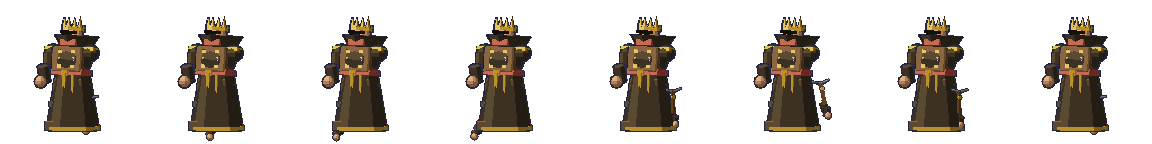
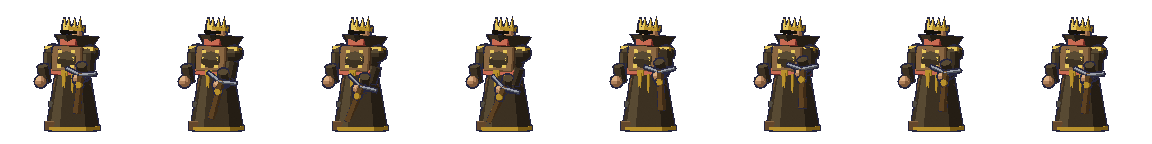
Play the attacks, and fix the enemies' shoulders too
Eight frames in a row cannot answer whether a swing reads, which is what the
developer said when handed the contact sheets. `tools/attack-preview.html` plays
them instead: a speed slider, a rest beat that holds frame 0 so an attack fires
in bursts the way it will in play, a per-family grid, and a duel view pairing
each hero with an enemy.

It opens by double-click, with no server. Nothing here fetches or reads canvas
pixels, so file:// is enough: the roster is inlined, each strip's frame count is
read off its own dimensions, and a frame step is a background-position change.

A duel needs an opponent, and the enemy sheets in the repository were still the
broken ones, so all 61 are re-rendered and published. The eight enemy entries
that swung a shoulder ball through a two-handed grip got the fix the heroes
already had; none is left.

Cells are not one size, so the preview seats each on the ground line by its OWN
tenth. Bottom-aligning a 176px boss against a 128px hero drops his feet 5px
below everyone else's.

The enemies have never been judged for anything beyond this.

diff --git a/tools/attack-preview.html b/tools/attack-preview.html
@@ -1,0 +1,291 @@
+<!DOCTYPE html>
+<html>
+<head>
+<meta charset="utf-8">
+<title>Attack preview — the animations in motion</title>
+<!--
+  Plays the rendered attack sheets so they can be judged as MOTION rather than as
+  a row of stills. An eight-frame strip tells you nothing about whether a swing
+  reads; only playback does.
+
+  Opens by DOUBLE-CLICK, with no server. That is why nothing here fetches or
+  touches canvas pixels: the roster is inlined, the frame count is read off each
+  image's own dimensions, and animation is a background-position step. The
+  runtime sprite pipeline in game.js does need canvas, which is why the game
+  itself wants http, but a review tool that needs a server does not get used.
+
+  EVERY CELL SEATS ON ONE GROUND LINE. World z=0 sits 10% up from the bottom of
+  every cell whatever its size, so a 176px boss cell and a 128px hero cell only
+  line up if each is pushed down by its OWN 10%. Bottom-aligning the images
+  instead puts the boss's feet 5px below everyone else's.
+-->
+<style>
+  :root { --ink: #d8cba8; --dim: #8a7f63; --gold: #c9a84c; }
+  body { background: #14110c; color: var(--ink);
+         font-family: Georgia, "Times New Roman", serif; margin: 0; padding: 20px 24px 60px; }
+  h1 { font-size: 21px; color: var(--gold); margin: 0 0 4px; }
+  .sub { font-size: 13px; color: var(--dim); margin-bottom: 18px; max-width: 62em; line-height: 1.5; }
+  .note { color: #b9a978; }
+
+  #bar { position: sticky; top: 0; z-index: 5; background: #14110c;
+         border-bottom: 1px solid #2e2617; padding: 10px 0 12px; margin-bottom: 18px;
+         display: flex; flex-wrap: wrap; gap: 16px 22px; align-items: center; }
+  #bar label { font-size: 12px; color: var(--dim); display: flex; align-items: center; gap: 7px; }
+  #bar output { color: var(--ink); min-width: 2.4em; display: inline-block; font-variant-numeric: tabular-nums; }
+  button, select { font-family: inherit; font-size: 13px; color: var(--ink);
+                   background: #241d12; border: 1px solid #4a3d25; border-radius: 3px;
+                   padding: 5px 12px; cursor: pointer; }
+  button:hover, select:hover { background: #2f2617; }
+  input[type=range] { accent-color: var(--gold); width: 130px; }
+
+  .grid { display: flex; flex-wrap: wrap; gap: 26px 20px; }
+  .cell { text-align: center; }
+  .stage { position: relative; background: #1b1710; border: 1px solid #2e2617;
+           border-radius: 3px; overflow: hidden; }
+  .ground { position: absolute; left: 0; right: 0; border-top: 1px solid #352c1a; }
+  .unit { position: absolute; image-rendering: pixelated;
+          background-repeat: no-repeat; }
+  .name { font-size: 11px; color: var(--dim); margin-top: 6px;
+          letter-spacing: 0.06em; text-transform: uppercase; }
+
+  .duel { display: flex; flex-wrap: wrap; gap: 26px 20px; }
+  .duel .stage { background: #1b1710; }
+  .duelname { font-size: 11px; color: var(--dim); margin-top: 6px; letter-spacing: 0.06em; }
+  .missing { color: #c46b52; font-size: 12px; padding: 12px; }
+</style>
+</head>
+<body>
+
+<h1>Attack preview</h1>
+<div class="sub">
+  Every rendered attack sheet, playing. Heroes face right and enemies face left, exactly as they
+  are drawn, so a duel row shows them meeting. <span class="note">Rest beat</span> holds frame 0
+  for a few extra frames, which is closer to how an attack fires in play than a continuous loop.
+  Sheets load from <code>assets/rendered/attack/</code>; anything not yet rendered shows as a gap.
+</div>
+
+<div id="bar">
+  <button id="play">Pause</button>
+  <button id="step">Step</button>
+  <label>Speed <input id="fps" type="range" min="2" max="24" value="12"><output id="fpsv">12</output> fps</label>
+  <label>Rest beat <input id="rest" type="range" min="0" max="16" value="5"><output id="restv">5</output></label>
+  <label>Zoom <input id="zoom" type="range" min="1" max="5" value="3"><output id="zoomv">3</output>x</label>
+  <label>Show
+    <select id="view">
+      <option value="hero-base">Hero lines (8)</option>
+      <option value="hero-all">Hero lines + rarity tiers (32)</option>
+      <option value="duel">Duels: hero vs enemy</option>
+      <option value="goblin">Goblin raid</option>
+      <option value="orc">Orc warband</option>
+      <option value="bandit">Bandit horde</option>
+      <option value="undead">Undead legion</option>
+      <option value="infernal">Infernal siege</option>
+      <option value="all">Everything (61)</option>
+    </select>
+  </label>
+  <label>Frame <output id="frame">0</output></label>
+</div>
+
+<div id="out"></div>
+
+<script>
+// The roster, inlined because file:// cannot fetch a manifest. Keep in step with
+// tools/blender/attack_roster.py; `render_attacks.py --list` prints it.
+const HERO_BASE = ['hero_fighter', 'hero_ranged', 'hero_mender', 'hero_paladin',
+                   'hero_assassin', 'hero_battlemage', 'hero_banneret', 'hero_frostadept'];
+const TIERS = ['', '_rare', '_epic', '_legendary'];
+// Two lines were auditioned at a tier other than common, so their base sprite IS
+// that tier and the missing one is generated instead.
+const BASE_TIER = { hero_mender: '_rare', hero_paladin: '_epic' };
+const FAMILIES = {
+  goblin:   ['goblin_skirmisher', 'goblin_caster', 'goblin_shaman', 'goblin_sapper', 'goblin_boss'],
+  orc:      ['orc_brute', 'orc_skirmisher', 'orc_caster', 'orc_shaman', 'orc_sapper', 'orc_boss'],
+  bandit:   ['bandit_brute', 'bandit_skirmisher', 'bandit_caster', 'bandit_shaman', 'bandit_sapper', 'bandit_boss'],
+  undead:   ['undead_brute', 'undead_skirmisher', 'undead_caster', 'undead_shaman', 'undead_sapper', 'undead_boss'],
+  infernal: ['infernal_brute', 'infernal_skirmisher', 'infernal_caster', 'infernal_shaman', 'infernal_sapper', 'infernal_boss'],
+};
+// One opponent per hero, spread across the five families so a single screen shows
+// every family at least once.
+const DUELS = [
+  ['hero_fighter',    'orc_brute'],
+  ['hero_ranged',     'goblin_skirmisher'],
+  ['hero_mender',     'undead_caster'],
+  ['hero_paladin',    'undead_brute'],
+  ['hero_assassin',   'bandit_skirmisher'],
+  ['hero_battlemage', 'infernal_skirmisher'],
+  ['hero_banneret',   'orc_boss'],
+  ['hero_frostadept', 'infernal_caster'],
+];
+
+const GROUND_FRAC = 0.10;   // spritekit.GROUND_FRAC: world z=0 sits this far up every cell
+const SRC = key => '../assets/rendered/attack/' + key + '.png';
+
+function heroAll() {
+  const out = [];
+  for (const line of HERO_BASE) {
+    for (const t of TIERS) {
+      out.push(t === (BASE_TIER[line] || '') ? line : line + t);
+    }
+  }
+  return out;
+}
+
+const el = id => document.getElementById(id);
+const out = el('out');
+
+let playing = true, frame = 0, timer = null;
+const units = [];          // {node, frames, cell} for every unit on screen
+
+function zoom() { return +el('zoom').value; }
+
+/** One animating figure. Frame count comes from the image itself: a strip is
+ *  square cells laid in a row, so frames = width / height and cell = height. */
+function makeUnit(key, stage, xFrac) {
+  const node = document.createElement('div');
+  node.className = 'unit';
+  node.style.backgroundImage = `url("${SRC(key)}")`;
+  stage.appendChild(node);
+  const rec = { node, frames: 8, cell: 128, xFrac, ready: false };
+  stage._units.push(rec);
+  const probe = new Image();
+  probe.onload = () => {
+    rec.cell = probe.naturalHeight;
+    rec.frames = Math.max(1, Math.round(probe.naturalWidth / probe.naturalHeight));
+    rec.ready = true;
+    fitStage(stage);
+    paint(rec);
+  };
+  probe.onerror = () => { node.remove(); };
+  probe.src = SRC(key);
+  units.push(rec);
+  return rec;
+}
+
+/** Size the stage from the art it holds, then seat every unit on one ground line.
+ *  Cells are not one size -- 128 for most, 192 for the banneret, 176 for a boss --
+ *  so a fixed stage clips the big ones. The tallest cell present sets the stage. */
+function fitStage(stage) {
+  const z = zoom();
+  const ready = stage._units.filter(r => r.ready);
+  if (!ready.length) return;
+  const cell = Math.max(...ready.map(r => r.cell));
+  const h = cell * z;
+  stage.style.height = h + 'px';
+  stage.style.width = (h * stage._aspect) + 'px';
+  // The ground line is where the TALLEST cell's own ground row falls.
+  stage._groundPx = cell * GROUND_FRAC * z;
+  stage._ground.style.bottom = stage._groundPx + 'px';
+  for (const r of ready) layout(r, stage);
+}
+
+function layout(rec, stage) {
+  const z = zoom(), px = rec.cell * z;
+  rec.node.style.width = px + 'px';
+  rec.node.style.height = px + 'px';
+  rec.node.style.backgroundSize = (px * rec.frames) + 'px ' + px + 'px';
+  rec.node.style.left = (parseFloat(stage.style.width) * rec.xFrac - px / 2) + 'px';
+  // Push each cell down by its OWN ground fraction so feet share one line
+  // whatever the cell size.
+  rec.node.style.bottom = (stage._groundPx - rec.cell * GROUND_FRAC * z) + 'px';
+}
+
+function paint(rec) {
+  if (!rec.ready) return;
+  const f = Math.min(frame, rec.frames - 1);
+  rec.node.style.backgroundPositionX = (-f * rec.cell * zoom()) + 'px';
+}
+
+/** `aspect` is width as a multiple of height; the real size is set by `fitStage`
+ *  once the art has loaded and its cell size is known. */
+function stage(aspect) {
+  const s = document.createElement('div');
+  s.className = 'stage';
+  s._aspect = aspect;
+  s._units = [];
+  s._groundPx = 0;
+  s.style.width = (128 * zoom() * aspect) + 'px';
+  s.style.height = (128 * zoom()) + 'px';
+  const g = document.createElement('div');
+  g.className = 'ground';
+  s._ground = g;
+  s.appendChild(g);
+  return s;
+}
+
+function render() {
+  units.length = 0;
+  out.innerHTML = '';
+  const view = el('view').value;
+
+  if (view === 'duel') {
+    const wrap = document.createElement('div');
+    wrap.className = 'duel';
+    for (const [hero, foe] of DUELS) {
+      const cell = document.createElement('div');
+      cell.className = 'cell';
+      const s = stage(2.0);
+      cell.appendChild(s);
+      const cap = document.createElement('div');
+      cap.className = 'duelname';
+      cap.textContent = hero.replace('hero_', '') + '  vs  ' + foe.replace('_', ' ');
+      cell.appendChild(cap);
+      wrap.appendChild(cell);
+      makeUnit(hero, s, 0.34);
+      makeUnit(foe, s, 0.66);
+    }
+    out.appendChild(wrap);
+    return;
+  }
+
+  let keys;
+  if (view === 'hero-base') keys = HERO_BASE;
+  else if (view === 'hero-all') keys = heroAll();
+  else if (view === 'all') keys = heroAll().concat(...Object.values(FAMILIES));
+  else keys = FAMILIES[view];
+
+  const grid = document.createElement('div');
+  grid.className = 'grid';
+  for (const key of keys) {
+    const cell = document.createElement('div');
+    cell.className = 'cell';
+    const s = stage(1.0);
+    cell.appendChild(s);
+    const n = document.createElement('div');
+    n.className = 'name';
+    n.textContent = key.replace(/_/g, ' ');
+    cell.appendChild(n);
+    grid.appendChild(cell);
+    makeUnit(key, s, 0.5);
+  }
+  out.appendChild(grid);
+}
+
+function advance() {
+  const rest = +el('rest').value;
+  const span = 8 + rest;                 // hold frame 0 for `rest` extra ticks
+  frame = (frame + 1) % span;
+  if (frame >= 8) frame = 0;
+  el('frame').textContent = frame;
+  for (const r of units) paint(r);
+}
+
+function restart() {
+  if (timer) clearInterval(timer);
+  timer = setInterval(() => { if (playing) advance(); }, 1000 / +el('fps').value);
+}
+
+el('play').onclick = () => {
+  playing = !playing;
+  el('play').textContent = playing ? 'Pause' : 'Play';
+};
+el('step').onclick = () => { playing = false; el('play').textContent = 'Play'; advance(); };
+el('fps').oninput = () => { el('fpsv').textContent = el('fps').value; restart(); };
+el('rest').oninput = () => { el('restv').textContent = el('rest').value; };
+el('zoom').oninput = () => { el('zoomv').textContent = el('zoom').value; render(); };
+el('view').onchange = render;
+
+render();
+restart();
+</script>
+</body>
+</html>

diff --git a/tools/blender/attack_roster.py b/tools/blender/attack_roster.py
@@ -55,6 +55,14 @@ B_L, B_R = ("bupperL", "bforeL", "bfistL"), ("bupperR", "bforeR", "bfistR")
 LIMB_L = ("armL_shoulder", "armL_upper", "armL_elbow", "armL_fore", "armL_hand")
 LIMB_R = ("armR_shoulder", "armR_upper", "armR_elbow", "armR_fore", "armR_hand")
 
+# The same arms WITHOUT their shoulder balls, for a two-handed grip. That swing
+# pivots about the midpoint between the shoulders, so a shoulder ball taken along
+# sweeps from beside the head to above it and lands across the face. Leave the
+# balls on the torso: they bury the upper arms' tops, so no gap opens at the
+# joint. A ONE-handed pivot is the opposite case -- there the ball is the joint
+# itself and turns in place, so those entries keep it.
+ARM_L, ARM_R = LIMB_L[1:], LIMB_R[1:]
+
 ATTACKS = [
     # ---- heroes -------------------------------------------------------------
     Attack("hero_fighter", "build_hero_fighter",
@@ -97,14 +105,14 @@ ATTACKS = [
     Attack("goblin_shaman", "build_goblin_shaman",
            [([("gshoulder",)], G_L, "staff_root")], A.CAST),
     Attack("goblin_sapper", "build_goblin_sapper",
-           [([("gupperL",), ("gupperR",)], G_L + G_R + ("gshoulder",), "pick_root")],
+           [([("gupperL",), ("gupperR",)], G_L + G_R, "pick_root")],
            A.SMASH),
     Attack("goblin_boss", "build_goblin_boss",
            [([("gshoulder",)], G_R, "blade_root")], A.OVERHAND, cell=144),
 
     # ---- orc warband --------------------------------------------------------
     Attack("orc_brute", "build_orc_brute",
-           [([("oupperL",), ("oupperR",)], O_L + O_R + ("oshoulder",), "maul_root")],
+           [([("oupperL",), ("oupperR",)], O_L + O_R, "maul_root")],
            A.SMASH),
     Attack("orc_skirmisher", "build_orc_skirmisher",
            _dual(O_L, O_R, "axeL_root", "axeR_root"), A.SLASH),
@@ -115,17 +123,17 @@ ATTACKS = [
     Attack("orc_sapper", "build_orc_sapper",
            [([("oshoulder",)], O_R, "torch_root")], A.SLASH),
     Attack("orc_boss", "build_orc_boss",
-           [([("oupperL",), ("oupperR",)], O_L + O_R + ("oshoulder",), "axe_root")],
+           [([("oupperL",), ("oupperR",)], O_L + O_R, "axe_root")],
            A.SWEEP, cell=176),
 
     # ---- bandit horde -------------------------------------------------------
     Attack("bandit_brute", "build_bandit_brute",
-           [([("bupperL",), ("bupperR",)], B_L + B_R + ("bshoulder",), "club_root")],
+           [([("bupperL",), ("bupperR",)], B_L + B_R, "club_root")],
            A.SMASH),
     Attack("bandit_skirmisher", "build_bandit_skirmisher",
            _dual(B_L, B_R, "knifeL_root", "knifeR_root"), A.SLASH),
     Attack("bandit_caster", "build_bandit_caster",
-           [([("bupperL",), ("bupperR",)], B_L + B_R + ("bshoulder",), "bow_root")],
+           [([("bupperL",), ("bupperR",)], B_L + B_R, "bow_root")],
            A.LOOSE),
     Attack("bandit_shaman", "build_bandit_shaman",
            [([("bshoulder",)], B_R, "bottle_root")], A.CAST),
@@ -154,7 +162,7 @@ ATTACKS = [
 
     # ---- infernal siege -----------------------------------------------------
     Attack("infernal_brute", "build_infernal_brute",
-           [([("armL_shoulder",), ("armR_shoulder",)], LIMB_L + LIMB_R + ("iclaw",),
+           [([("armL_shoulder",), ("armR_shoulder",)], ARM_L + ARM_R + ("iclaw",),
              "cleaver_root")], A.SMASH),
     # The only quadruped: no arms to swing, so the attack is a head-snap driven
     # from the neck.
@@ -164,11 +172,11 @@ ATTACKS = [
     # No weapon root: the hellfire arc IS the weapon, so it swings with the arms.
     Attack("infernal_caster", "build_infernal_caster",
            [([("armL_shoulder",), ("armR_shoulder",)],
-             LIMB_L + LIMB_R + ("iclaw", "iarc", "ispark"), None)], A.CAST),
+             ARM_L + ARM_R + ("iclaw", "iarc", "ispark"), None)], A.CAST),
     Attack("infernal_shaman", "build_infernal_shaman",
            [([("armR_shoulder",)], LIMB_R + ("iclaw",), "chalice_root")], A.CAST),
     Attack("infernal_sapper", "build_infernal_sapper",
-           [([("armL_shoulder",), ("armR_shoulder",)], LIMB_L + LIMB_R + ("iclaw",),
+           [([("armL_shoulder",), ("armR_shoulder",)], ARM_L + ARM_R + ("iclaw",),
              "brazier_root")], A.CAST),
     Attack("infernal_boss", "build_infernal_boss",
            [([("armL_shoulder",)], LIMB_L + ("iclaw",), "scepter_root")], A.CAST, cell=176),

diff --git a/CLAUDE.md b/CLAUDE.md
@@ -114,6 +114,10 @@ Shipping the game to players who can't run a server is **M17: distribution & pac
   Rerun for any balance change. **Keep its constant tables in sync with game.js.**
 - `tools/process-art.html` / `tools/plot-placer.html` / `tools/scene-prototype.html` — art
   pipeline and layout tools
+- `tools/attack-preview.html` — **plays the attack sheets**, so animation is judged as
+  motion rather than as a row of stills. Double-click it; no server, because it neither
+  fetches nor touches canvas pixels. Grid view per family, plus a duel view pairing each
+  hero with an enemy.
 - `tools/blender/` — **the art pipeline going forward** (user decision 2026-07-31). Python
   that models and renders sprites, buildings and the backdrop as 3D pixel art, with no
   manual modelling. `render_all.py` drives Blender **headless**, one process per asset;
